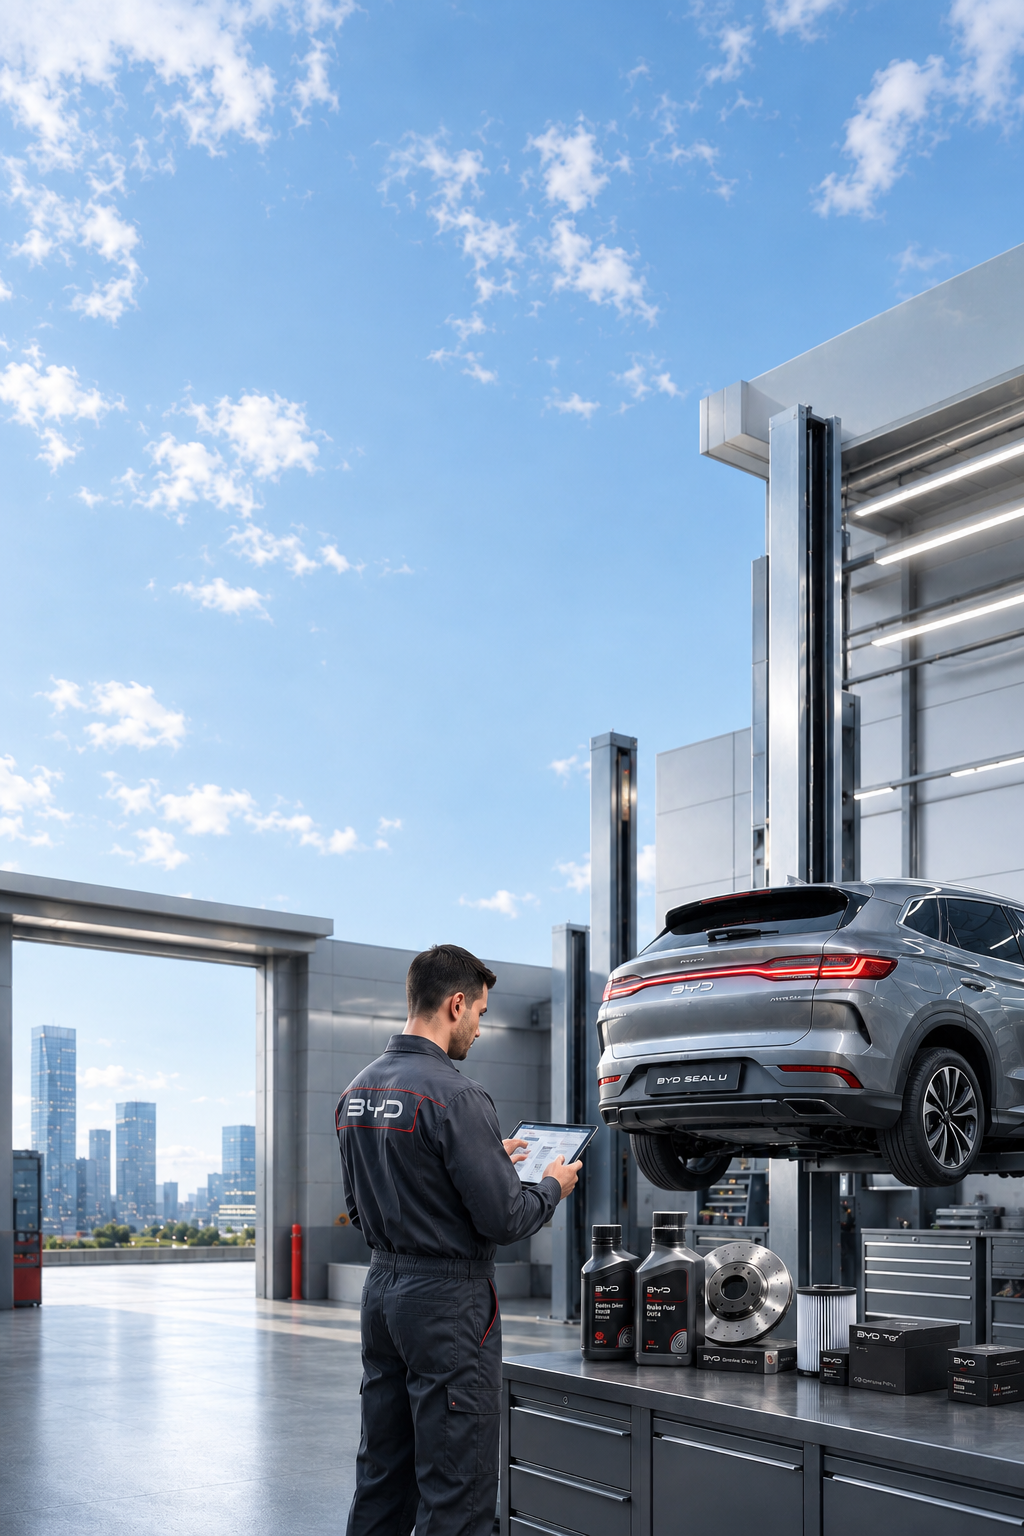
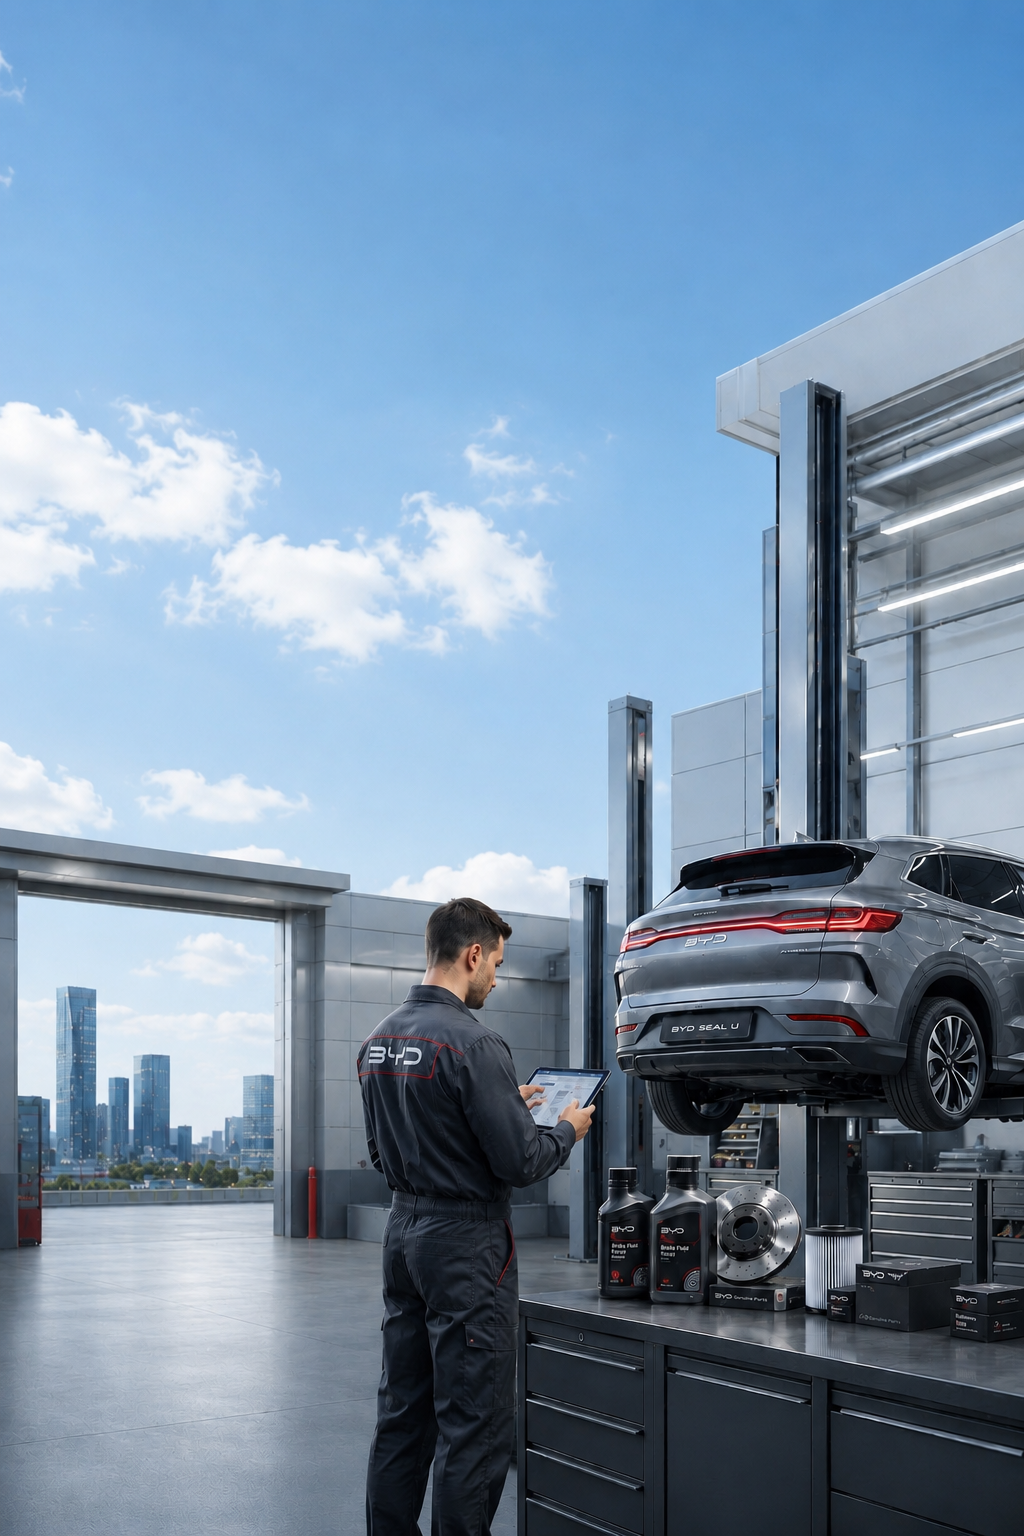
DetailFixes46

diff --git a/src/components/landing/landingPage.module.css b/src/components/landing/landingPage.module.css
@@ -69,19 +69,30 @@
 
 .panelImage {
   --landing-image-scale: 1.015;
-  --landing-image-offset-y: 0%;
+  display: block;
+  width: 100% !important;
+  height: 100% !important;
+  min-width: 100%;
+  min-height: 100%;
   object-fit: cover;
-  transform: translateY(var(--landing-image-offset-y)) scale(var(--landing-image-scale));
+  transform: scale(var(--landing-image-scale));
   transition: transform 1150ms var(--landing-ease);
 }
 
 .panelActive .panelImage { --landing-image-scale: 1.06; }
 
+/* Both services assets are already framed for this panel. Keep their viewport
+   framing identical in both themes and while the theme is switching. */
+.panel[data-panel="services"] .panelImage {
+  transform: none !important;
+  object-position: center center;
+}
+
 .panelOverlay {
   z-index: 1;
   background:
     linear-gradient(90deg, rgba(4, 9, 15, 0.74) 0%, rgba(4, 9, 15, 0.32) 64%, rgba(4, 9, 15, 0.14) 100%),
-    linear-gradient(180deg, rgba(4, 9, 15, 0.34) 0%, rgba(4, 9, 15, 0.08) 37%, rgba(4, 9, 15, 0.9) 100%);
+    linear-gradient(180deg, rgba(4, 9, 15, 0.34) 0%, rgba(4, 9, 15, 0.08) 37%, transparent 100%);
   transition: opacity 520ms ease;
 }
 
@@ -219,6 +230,16 @@
 .panelCta:hover .ctaArrow { transform: translateX(0.25rem); border-color: #fff; background: rgba(215, 12, 25, 0.9); }
 
 @media (min-width: 768px) {
+  /* The commercial source image includes a dark strip at its lower edge.
+     Crop that baked-in edge from the idle state, where the narrow panel would
+     otherwise show the image's full height. */
+  .panel[data-panel="commercial"] .panelImage {
+    --landing-image-scale: 1.12;
+    transform-origin: center top;
+  }
+
+  .panelActive[data-panel="commercial"] .panelImage { --landing-image-scale: 1.06; }
+
   .panelContent {
     display: grid;
     grid-template-rows: auto minmax(0, 1fr) auto;
@@ -569,14 +590,6 @@
   box-shadow: 0 1.25rem 3.75rem rgba(24, 28, 32, 0.12);
 }
 
-:global(html:not(.light)) .panel[data-panel="commercial"] .panelImage {
-  --landing-image-offset-y: -6.5%;
-}
-
-:global(html.light) .panel[data-panel="services"] .panelImage {
-  --landing-image-offset-y: -3%;
-}
-
 :global(html.light) .finderSubmit:focus-visible,
 :global(html.light) .finderSecondary:focus-visible,
 :global(html.light) .field select:focus-visible {
@@ -649,20 +662,6 @@
 }
 
 @media (max-width: 767px) {
-  :global(html:not(.light)) .panel[data-panel="commercial"] .panelImage {
-    --landing-image-offset-y: 0%;
-  }
-
-  :global(html.light) .panel[data-panel="commercial"] .panelImage {
-    --landing-image-offset-y: 0%;
-    object-position: center;
-  }
-
-  :global(html.light) .panel[data-panel="services"] .panelImage {
-    --landing-image-offset-y: 0%;
-    object-position: center 86%;
-  }
-
   .mobileExpanded[data-panel="services"] .panelOverlay {
     opacity: 0.42;
     background: linear-gradient(180deg, rgba(4, 9, 15, 0.01), rgba(4, 9, 15, 0.18) 70%, rgba(4, 9, 15, 0.38));

diff --git a/src/components/landing/LandingPage.tsx b/src/components/landing/LandingPage.tsx
@@ -10,6 +10,7 @@ import ServicesQuickFinder from "./ServicesQuickFinder";
 import styles from "./landingPage.module.css";
 
 const MOBILE_QUERY = "(max-width: 767px)";
+const SERVICES_ASSET_VERSION = "20260815-2";
 
 function ArrowIcon() {
   return (
@@ -57,8 +58,16 @@ function isLightTheme() {
 }
 
 function ResponsivePanelImage({ panel, priority, isLightMode }: { panel: LandingPanelDefinition; priority: boolean; isLightMode: boolean }) {
+  const desktopSource = isLightMode ? panel.lightDesktopImage : panel.desktopImage;
+  const mobileSource = isLightMode ? panel.lightMobileImage : panel.mobileImage;
+  const versionedDesktopSource = panel.id === "services"
+    ? { ...desktopSource, src: `${desktopSource.src}?v=${SERVICES_ASSET_VERSION}` }
+    : desktopSource;
+  const versionedMobileSource = panel.id === "services"
+    ? { ...mobileSource, src: `${mobileSource.src}?v=${SERVICES_ASSET_VERSION}` }
+    : mobileSource;
   const { props: desktopProps } = getImageProps({
-    src: isLightMode ? panel.lightDesktopImage : panel.desktopImage,
+    src: versionedDesktopSource,
     alt: "",
     fill: true,
     sizes: "(min-width: 1440px) 42vw, (min-width: 768px) 52vw, 100vw",
@@ -66,7 +75,7 @@ function ResponsivePanelImage({ panel, priority, isLightMode }: { panel: Landing
     priority,
   });
   const { props: mobileProps } = getImageProps({
-    src: isLightMode ? panel.lightMobileImage : panel.mobileImage,
+    src: versionedMobileSource,
     alt: "",
     fill: true,
     sizes: "100vw",
@@ -77,7 +86,12 @@ function ResponsivePanelImage({ panel, priority, isLightMode }: { panel: Landing
   return (
     <picture className={styles.panelPicture}>
       <source media={MOBILE_QUERY} srcSet={mobileProps.srcSet} sizes={mobileProps.sizes} />
-      <img {...desktopProps} alt="" className={styles.panelImage} aria-hidden="true" />
+      <img
+        {...desktopProps}
+        alt=""
+        className={styles.panelImage}
+        aria-hidden="true"
+      />
     </picture>
   );
 }

diff --git a/_bmad-output/implementation-artifacts/spec-wip.md b/_bmad-output/implementation-artifacts/spec-wip.md
@@ -1,0 +1,68 @@
+---
+title: 'Keep navbar products synchronized with available catalog models'
+type: 'bugfix'
+created: '2026-07-28'
+status: 'draft'
+context:
+  - 'C:/Users/Houpa/Desktop/Bmad/docs/byd-gt-phase-tracker.md'
+  - 'C:/Users/Houpa/Desktop/Bmad/docs/handoff.md'
+---
+
+<frozen-after-approval reason="human-owned intent — do not modify unless human renegotiates">
+
+## Intent
+
+**Problem:** The Products mega-menu reads a separate four-item `MEGA_MODELS` constant while the live catalog now contains five available products, so Sealion 06 EV is absent and the existing four-per-page arrow remains disabled.
+
+**Approach:** Synchronize the shared desktop and mobile navbar product list with `/api/models`, while retaining an immediate five-model fallback and the existing curated imagery for known products. Continue to paginate the desktop preview in groups of four and list every available product in the mobile accordion.
+
+## Boundaries & Constraints
+
+**Always:** Show only models whose catalog record is available; keep model names in Latin characters in both locales; use localized taglines; preserve the current first-four ordering, curated menu imagery, four-card pagination, external sibling arrow column, and mobile product list; use a catalog model's hero image as the safe preview fallback for future products.
+
+**Ask First:** Any redesign of the mega-menu, changes to catalog/API schemas, changes to product availability semantics, or replacement of current curated assets.
+
+**Never:** Remove or bypass `visibleModels` pagination; overlay the arrow on cards; make the whole locale layout dynamic; couple this fix to ModelShowcase; hide the existing four products while the model request is loading or when it fails.
+
+## I/O & Edge-Case Matrix
+
+| Scenario | Input / State | Expected Output / Behavior | Error Handling |
+|----------|---------------|----------------------------|----------------|
+| Current inventory | API returns five available models | First four remain on page one; arrow is enabled; page two shows Sealion 06 EV | N/A |
+| Future inventory | API returns more available models | All available models appear across four-item desktop pages and in the full mobile list | Unknown models use their catalog hero image |
+| Availability change | API returns unavailable models | Unavailable records do not appear in either navbar presentation | Clamp the active page if the list shrinks |
+| API failure | Request rejects or returns invalid data | Existing products remain visible and usable | Keep the five-model fallback; do not blank the menu |
+
+</frozen-after-approval>
+
+## Code Map
+
+- `src/components/layout/Navbar.tsx` — owns navbar model data, desktop mega-menu pagination, product cards, and mobile product accordion.
+- `src/app/api/models/route.ts` — existing read-only model inventory endpoint used by the catalog/admin system.
+- `content/models/sealion-06-ev.json` — fifth available model currently missing from the navbar source.
+
+## Tasks & Acceptance
+
+**Execution:**
+- [ ] `src/components/layout/Navbar.tsx` — introduce a typed navbar model shape, add Sealion 06 EV to the resilient initial data, load available inventory from `/api/models`, merge catalog content with curated known-model previews, and drive desktop/mobile rendering from synchronized state.
+- [ ] `src/components/layout/Navbar.tsx` — guard pagination when inventory changes and preserve the existing visible/disabled arrow treatment.
+
+**Acceptance Criteria:**
+- Given the five current available catalog models, when the English or Georgian Products menu is opened, then all five Latin model names are reachable.
+- Given the initial desktop page, when the menu loads five models, then four cards render and the right-side arrow is enabled.
+- Given the enabled arrow, when it is activated, then the next product group renders without overlapping the cards.
+- Given a mobile viewport, when Products is expanded, then all available products render without pagination.
+- Given the models endpoint fails, when the menu is opened, then the known five-model fallback remains functional.
+
+## Spec Change Log
+
+## Verification
+
+**Commands:**
+- `npx tsc --noEmit --incremental false` — expected: no TypeScript errors.
+- `npm run lint` — expected: no ESLint errors or warnings.
+- `git diff --check` — expected: no whitespace errors.
+
+**Manual checks:**
+- Open `/en` and `/ka`, hover Products at desktop width, confirm four cards on page one and Sealion 06 EV on page two.
+- Expand Products on mobile and confirm all five models, Latin names, correct localized links, and no pagination control.
